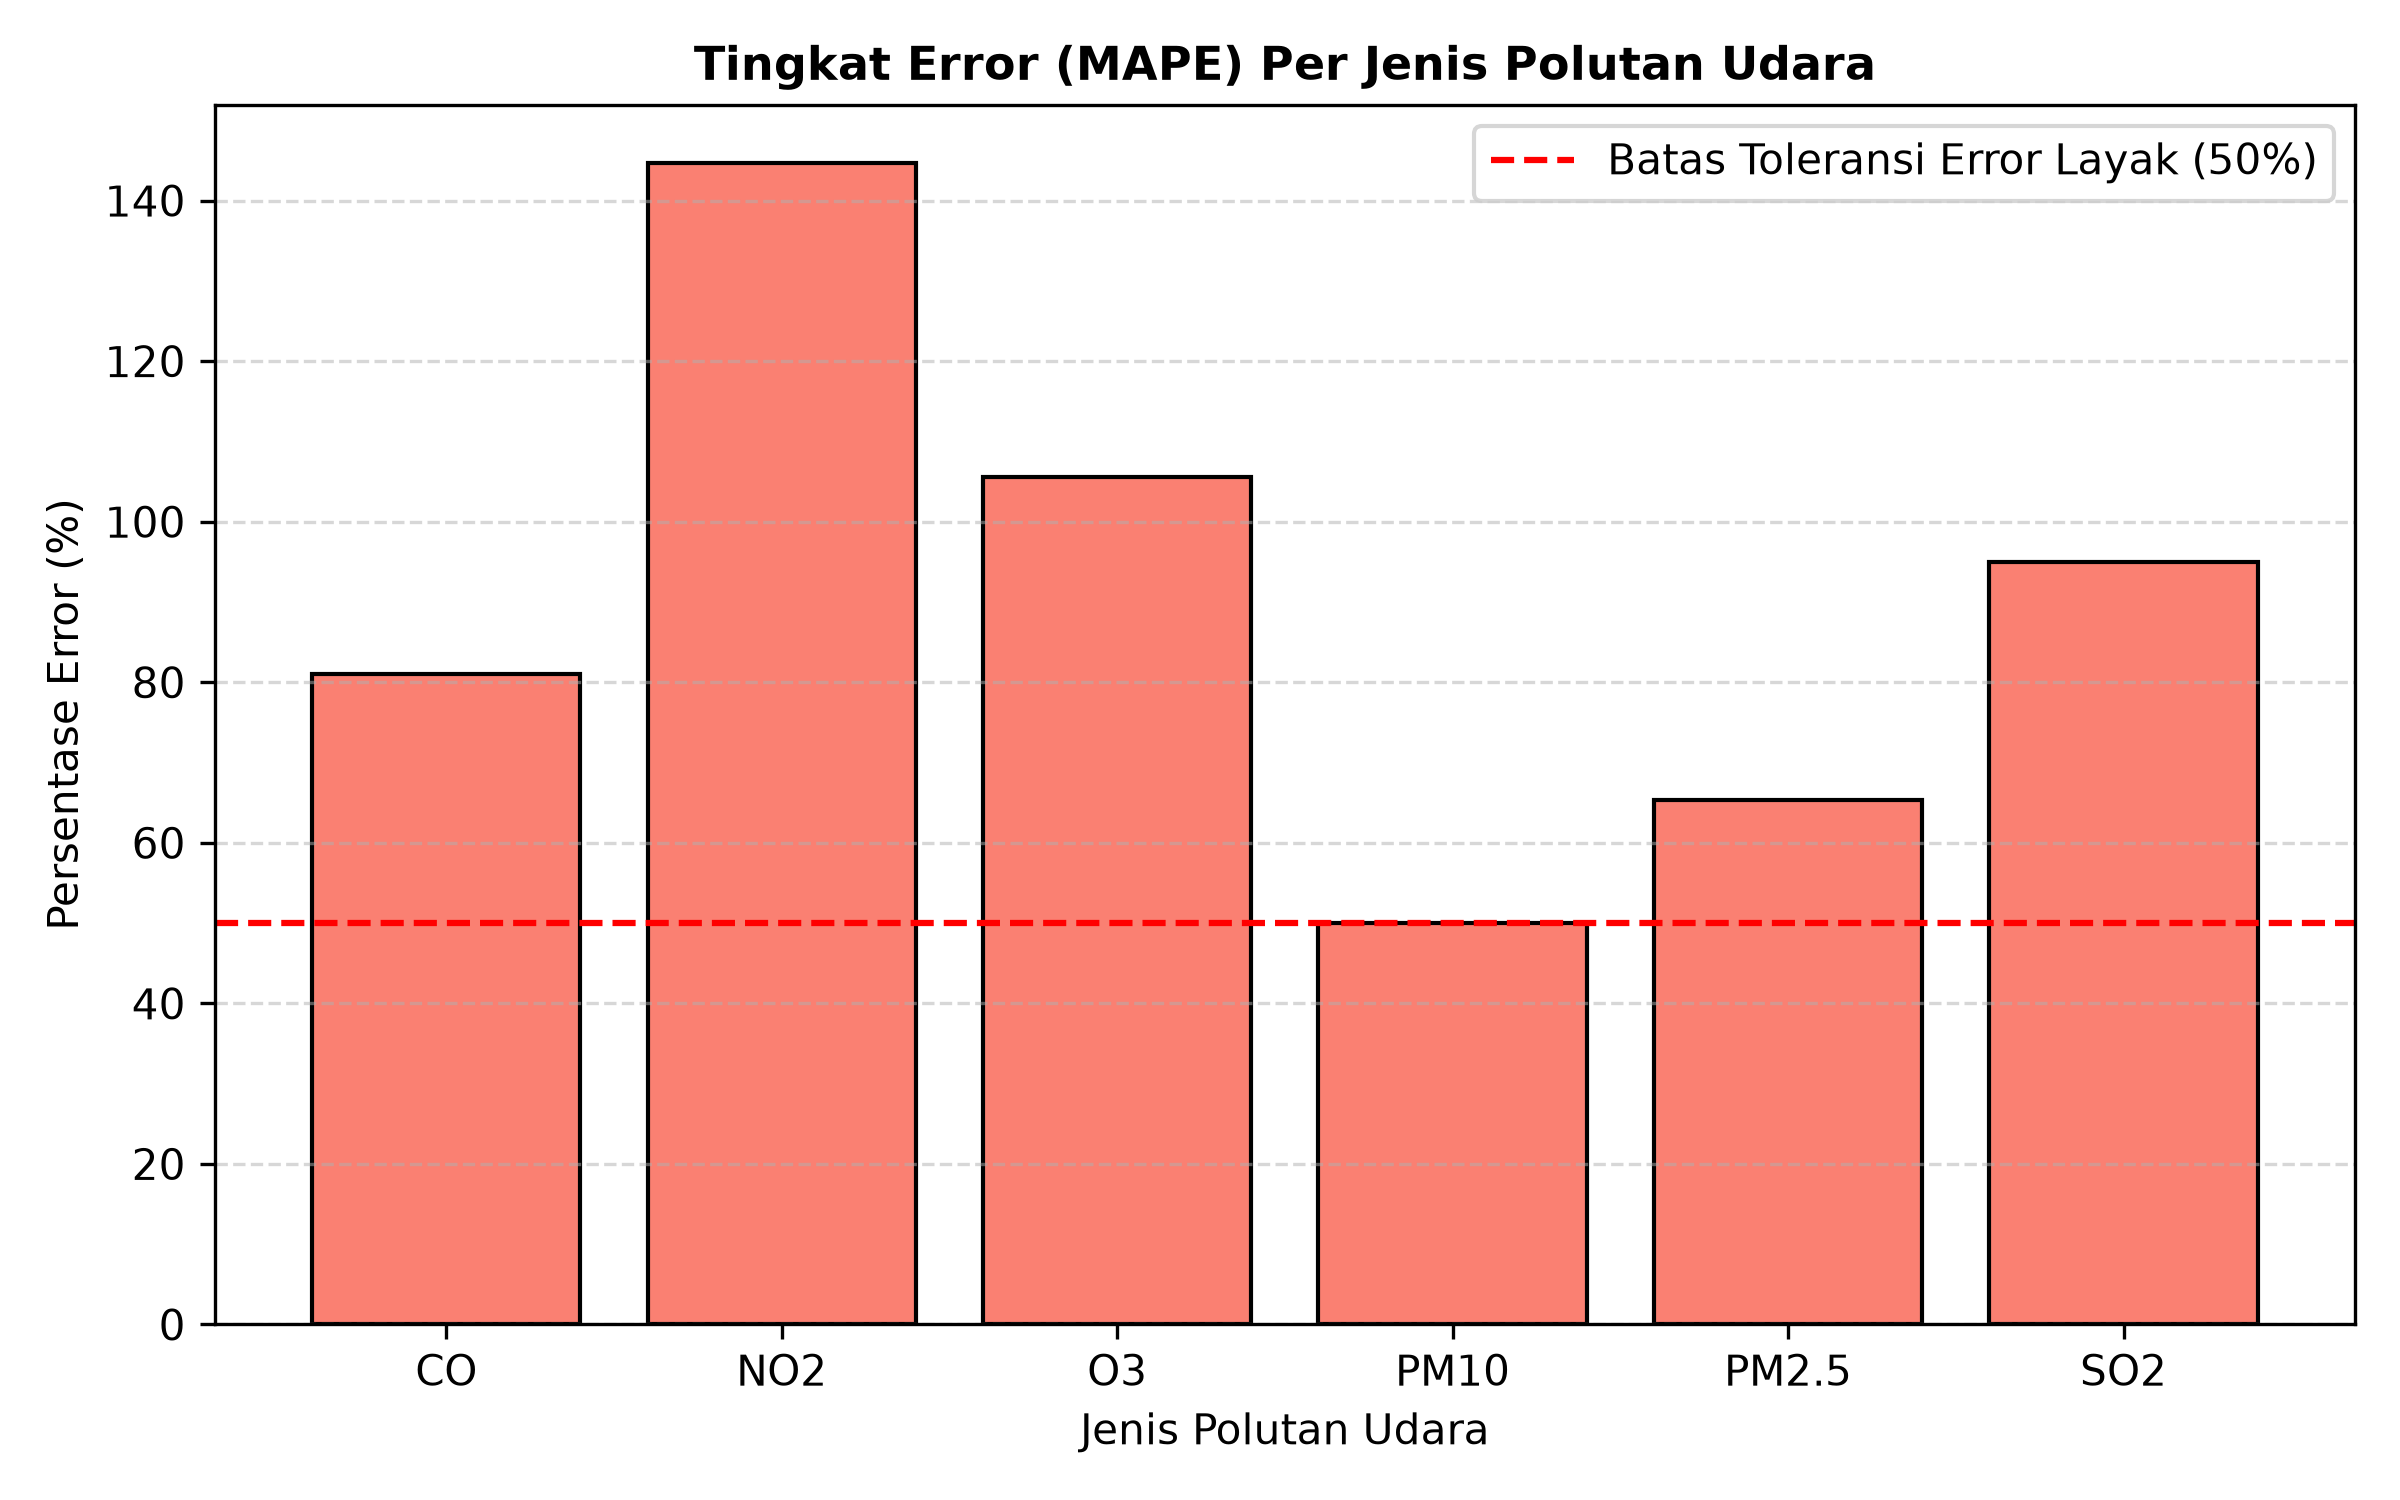
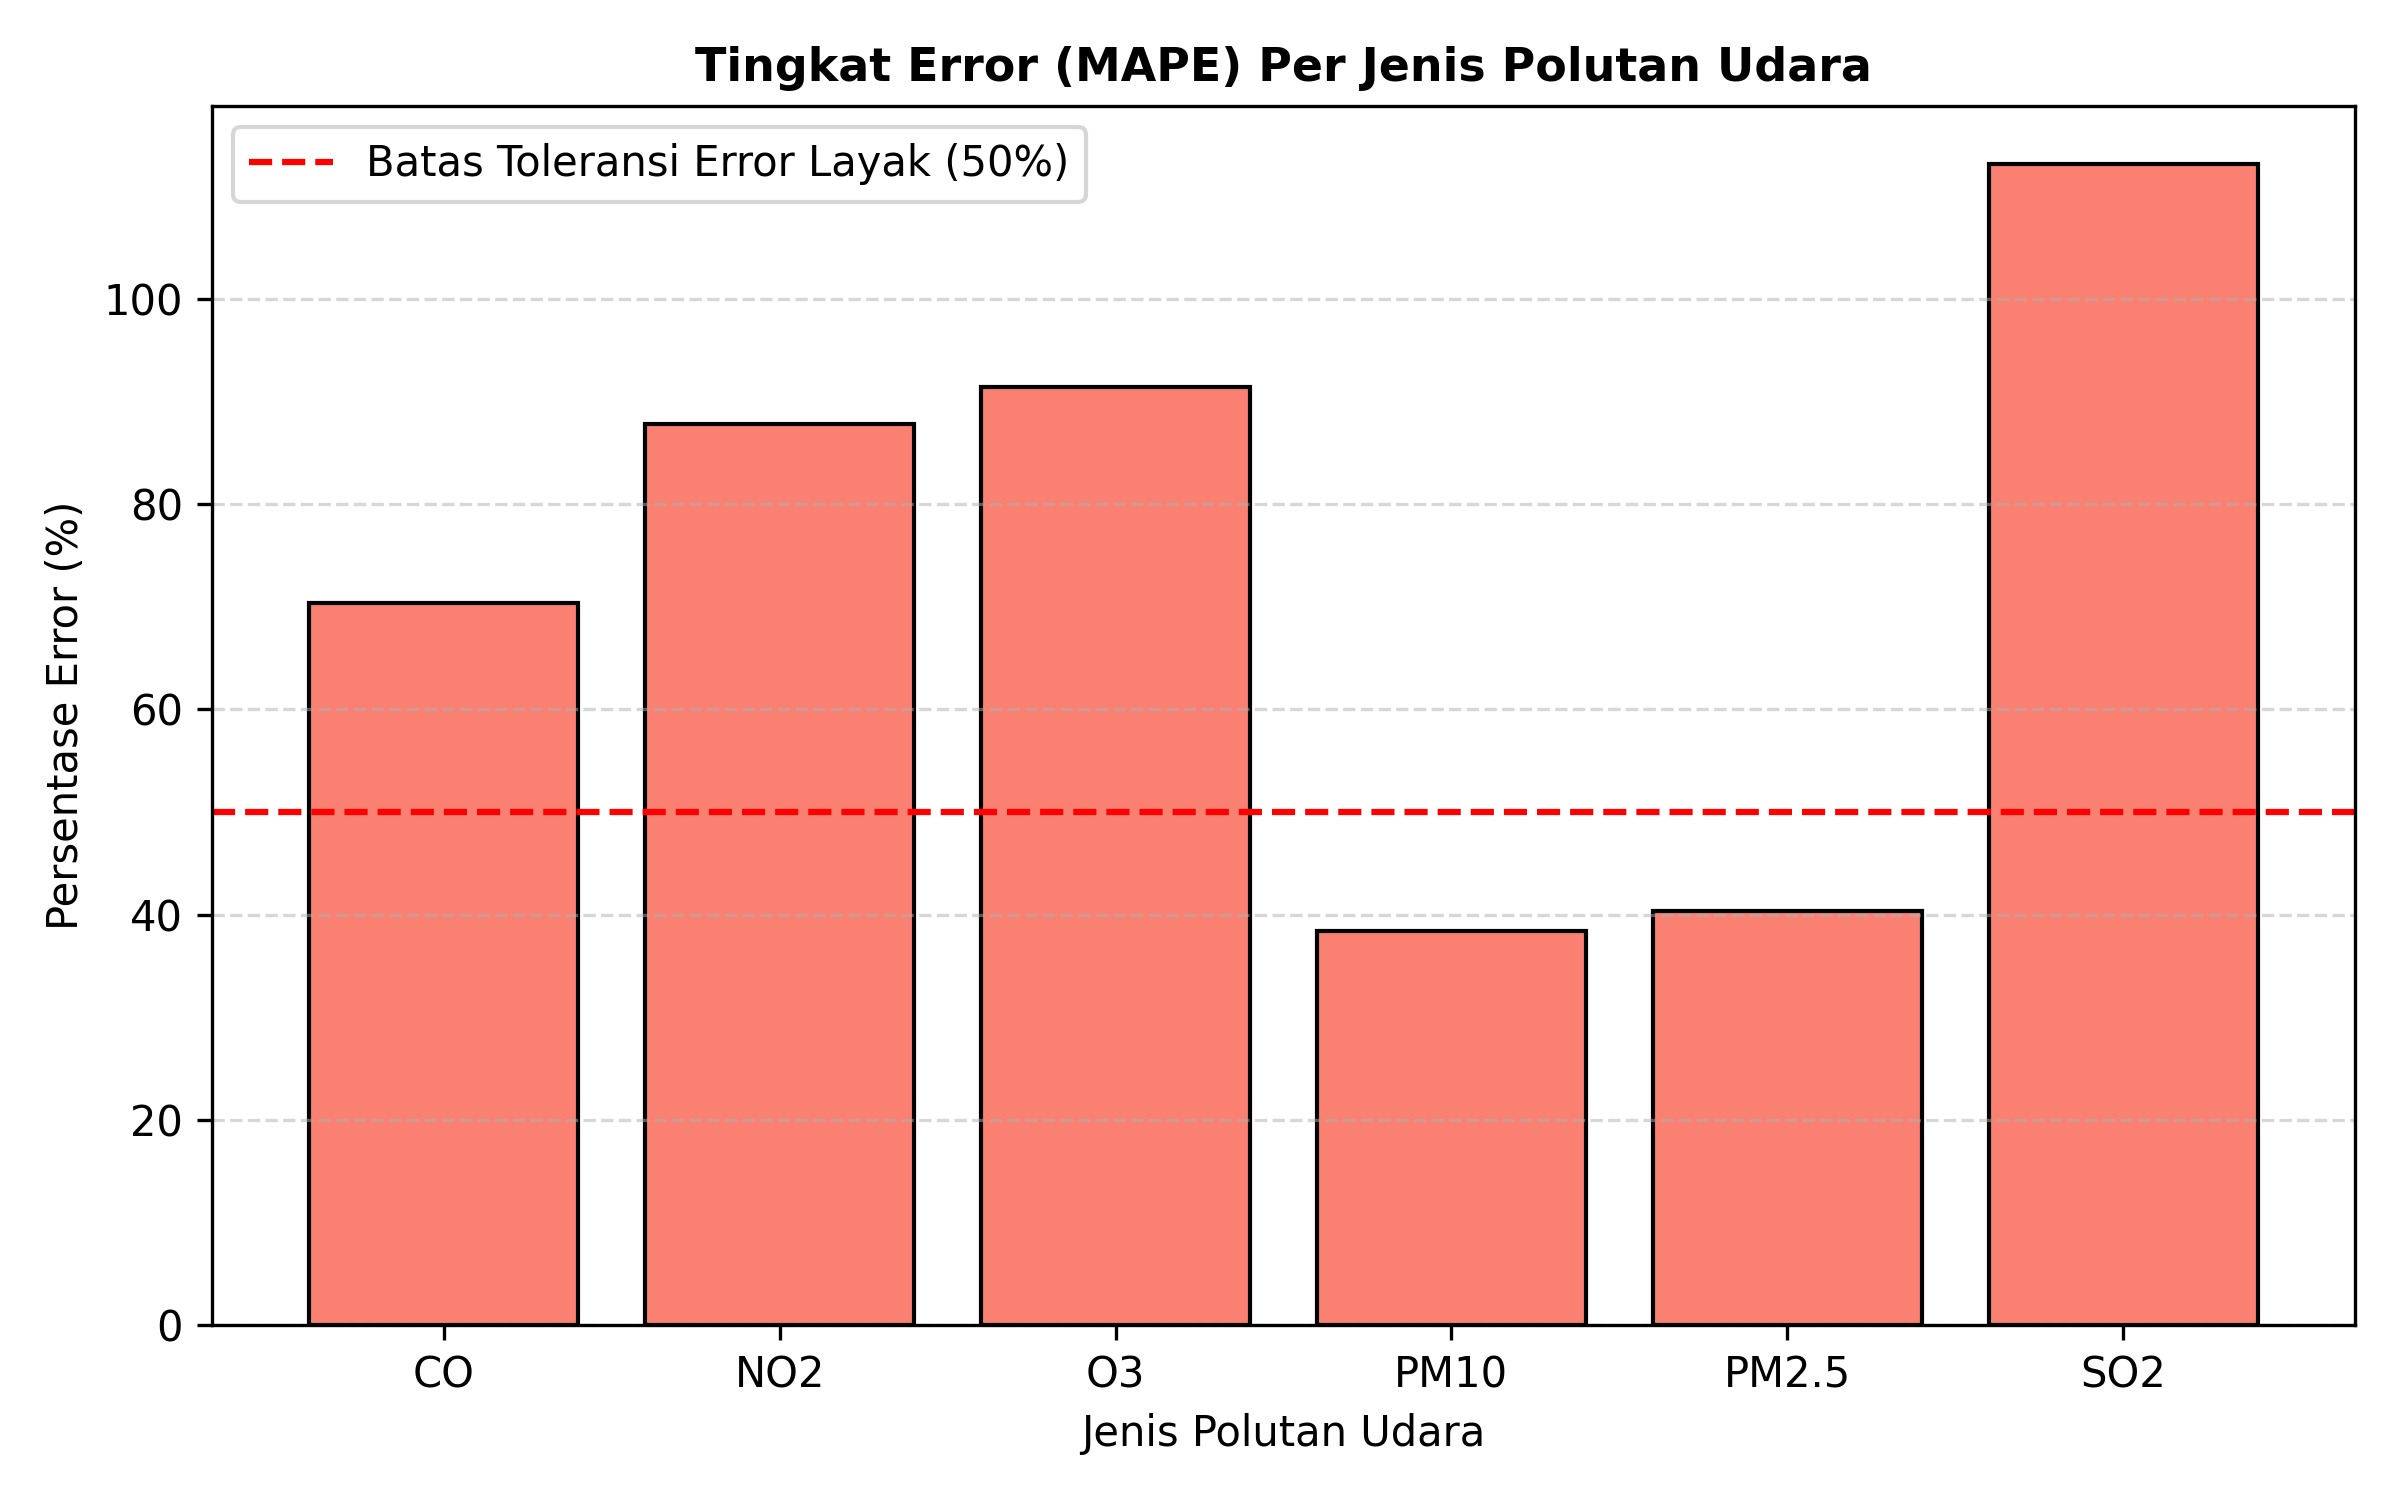
perbaikan kode

diff --git a/src/model_randomforest.py b/src/model_randomforest.py
@@ -2,10 +2,13 @@ import pandas as pd
 import numpy as np
 from sklearn.ensemble import RandomForestRegressor
 from sklearn.metrics import mean_squared_error, mean_absolute_error, r2_score
+from sklearn.preprocessing import MinMaxScaler
 import matplotlib.pyplot as plt
 
 FILE_PATH = "data/DATASET_PROCESSED.xlsx"
+RAW_FILE = "data/DATASET.xlsx"  # file asli sebelum normalisasi
 
+# Data hasil preprocessing
 x_train = pd.read_excel(FILE_PATH, sheet_name='x_train')
 x_test = pd.read_excel(FILE_PATH, sheet_name='x_test')
 y_train = pd.read_excel(FILE_PATH, sheet_name='y_train')
@@ -18,6 +21,14 @@ print("=== DATA LOADED ===")
 print(f"Jumlah data training: {x_train.shape[0]} baris")
 print(f"Jumlah data testing : {x_test.shape[0]} baris\n")
 
+# --- Ambil data raw dari file asli ---
+raw_data = pd.read_excel(RAW_FILE, sheet_name='DATASHEET')  # ganti sesuai sheet asli
+y_raw = raw_data[target]  # ambil kolom target polutan
+
+# --- Fit scaler dari data raw ---
+scaler_y = MinMaxScaler()
+scaler_y.fit(y_raw)
+
 def hitung_mape(y_true, y_pred):
     y_true = np.array(y_true)
     y_pred = np.array(y_pred)
@@ -26,6 +37,7 @@ def hitung_mape(y_true, y_pred):
         return 0.0
     return np.mean(np.abs((y_true[mask] - y_pred[mask]) / y_true[mask])) * 100
 
+# --- Training model ---
 rf = RandomForestRegressor(
     n_estimators=200,
     max_depth=5,
@@ -36,40 +48,36 @@ rf = RandomForestRegressor(
 rf.fit(x_train, y_train)
 y_pred = rf.predict(x_test)
 
-print("=== HASIL EVALUASI PER POLUTAN ===")
+# --- Inverse transform ke skala asli ---
+y_test_raw = scaler_y.inverse_transform(y_test)
+y_pred_raw = scaler_y.inverse_transform(y_pred)
+
+print("=== HASIL EVALUASI PER POLUTAN (DATA RAW) ===")
 mape_list = []
 
 for i, col in enumerate(target):
-    mse_i = mean_squared_error(y_test.iloc[:, i], y_pred[:, i])
+    mse_i = mean_squared_error(y_test_raw[:, i], y_pred_raw[:, i])
     rmse_i = np.sqrt(mse_i)
-    mae_i = mean_absolute_error(y_test.iloc[:, i], y_pred[:, i])
-    r2_i = r2_score(y_test.iloc[:, i], y_pred[:, i])
-    mape_i = hitung_mape(y_test.iloc[:, i], y_pred[:, i])
+    mae_i = mean_absolute_error(y_test_raw[:, i], y_pred_raw[:, i])
+    r2_i = r2_score(y_test_raw[:, i], y_pred_raw[:, i])
+    mape_i = hitung_mape(y_test_raw[:, i], y_pred_raw[:, i])
     mape_list.append(mape_i)
     
-    if mape_i < 10:
-        status_mape = "Sangat Akurat (Sangat Bagus)"
-    elif mape_i <= 20:
-        status_mape = "Baik / Akurat"
-    elif mape_i <= 50:
-        status_mape = "Layak / Cukup"
-    else:
-        status_mape = "Buruk / Kurang Akurat"
-        
     print(f"Polutan {col}:")
     print(f"  - MAE  : {mae_i:.4f}")
     print(f"  - RMSE : {rmse_i:.4f}")
     print(f"  - R2   : {r2_i:.4f}")
-    print(f"  - MAPE : {mape_i:.2f}% -> Kategori: {status_mape}\n")
+    print(f"  - MAPE : {mape_i:.2f}%\n")
 
+# --- Feature Importance ---
 importances = rf.feature_importances_
 indices = np.argsort(importances)[::-1]
 fitur_sorted = [fitur[idx] for idx in indices]
 
 plt.figure(figsize=(8, 5))
 plt.title("Fitur Kendaraan Paling Berpengaruh Terhadap Kualitas Udara", fontsize=11, fontweight='bold')
-plt.bar(range(len(importances)), importances[indices], color='teal', align="center", edgecolor='black')
-plt.xticks(range(len(importances)), fitur_sorted, fontweight='bold')
+plt.bar(range(len(importances)), importances[indices], color='teal', edgecolor='black')
+plt.xticks(range(len(importances)), fitur_sorted, rotation=45, fontweight='bold')
 plt.ylabel("Bobot Kepentingan (Importance)")
 plt.xlabel("Jenis Kendaraan")
 plt.grid(axis='y', linestyle='--', alpha=0.5)
@@ -77,19 +85,27 @@ plt.tight_layout()
 plt.savefig("data/grafik_feature_importance.png", dpi=300)
 plt.show()
 
-plt.figure(figsize=(10, 4.5))
-plt.plot(y_test['PM2.5'].values[:50], label='Nilai Asli Realitas (PM2.5)', marker='o', color='black', linewidth=1.5)
-plt.plot(y_pred[:, target.index('PM2.5')][:50], label='Prediksi Random Forest', marker='x', linestyle='--', color='red', linewidth=1.5)
-plt.title("Perbandingan Nilai Asli vs Prediksi Polutan PM2.5 (50 Sampel Pertama)", fontsize=11, fontweight='bold')
-print("[INFO] Semua grafik visualisasi berhasil disimpan di dalam folder 'data/'")
-plt.xlabel("Indeks Data Uji")
-plt.ylabel("Nilai Polutan (Skala Normalisasi)")
-plt.legend()
-plt.grid(True, linestyle='--', alpha=0.5)
+# --- Perbandingan Nilai Aktual vs Prediksi per Polutan ---
+fig, axes = plt.subplots(nrows=3, ncols=2, figsize=(15, 12))
+axes = axes.flatten()
+
+jumlah_sampel = 50  # tampilkan 50 sampel pertama
+
+for i, col in enumerate(target):
+    ax = axes[i]
+    ax.plot(y_test_raw[:, i][:jumlah_sampel], label='Nilai Aktual', marker='o', color='black', linewidth=1)
+    ax.plot(y_pred_raw[:, i][:jumlah_sampel], label='Prediksi RF', marker='x', linestyle='--', color='red', linewidth=1)
+    ax.set_title(f"Perbandingan Aktual vs Prediksi: {col}", fontsize=11, fontweight='bold')
+    ax.set_xlabel("Indeks Data Uji", fontsize=9)
+    ax.set_ylabel("Nilai Polutan (µg/m³)", fontsize=9)
+    ax.legend(fontsize=8)
+    ax.grid(True, linestyle=':', alpha=0.6)
+
 plt.tight_layout()
-plt.savefig("data/grafik_perbandingan_pm25.png", dpi=300)
+plt.savefig("data/grafik_perbandingan_semua_polutan.png", dpi=300)
 plt.show()
 
+# --- Diagram Error MAPE per Polutan ---
 plt.figure(figsize=(8, 5))
 plt.title("Tingkat Error (MAPE) Per Jenis Polutan Udara", fontsize=11, fontweight='bold')
 plt.bar(target, mape_list, color='salmon', edgecolor='black')
@@ -100,26 +116,4 @@ plt.legend()
 plt.grid(axis='y', linestyle='--', alpha=0.5)
 plt.tight_layout()
 plt.savefig("data/grafik_error_mape.png", dpi=300)
-plt.show()
-
-fig, axes = plt.subplots(nrows=3, ncols=2, figsize=(15, 12))
-axes = axes.flatten() 
-
-jumlah_sampel = 50 
-
-for i, col in enumerate(target):
-    ax = axes[i]
-    ax.plot(y_test[col].values[:jumlah_sampel], label='Nilai Asli', marker='o', color='black', alpha=0.7, linewidth=1)
-    ax.plot(y_pred[:, i][:jumlah_sampel], label='Prediksi RF', marker='x', linestyle='--', color='crimson', alpha=0.8, linewidth=1)
-    
-    ax.set_title(f"Perbandingan Realitas vs Prediksi: {col}", fontsize=11, fontweight='bold')
-    ax.set_xlabel("Indeks Data Uji", fontsize=9)
-    ax.set_ylabel("Nilai Skala Normalisasi", fontsize=9)
-    ax.legend(fontsize=8)
-    ax.grid(True, linestyle=':', alpha=0.6)
-
-plt.tight_layout()
-
-plt.savefig("data/grafik_perbandingan_semua_polutan.png", dpi=300)
-print("[INFO] Grafik perbandingan semua polutan berhasil disimpan di folder 'data/grafik_perbandingan_semua_polutan.png'")
 plt.show()